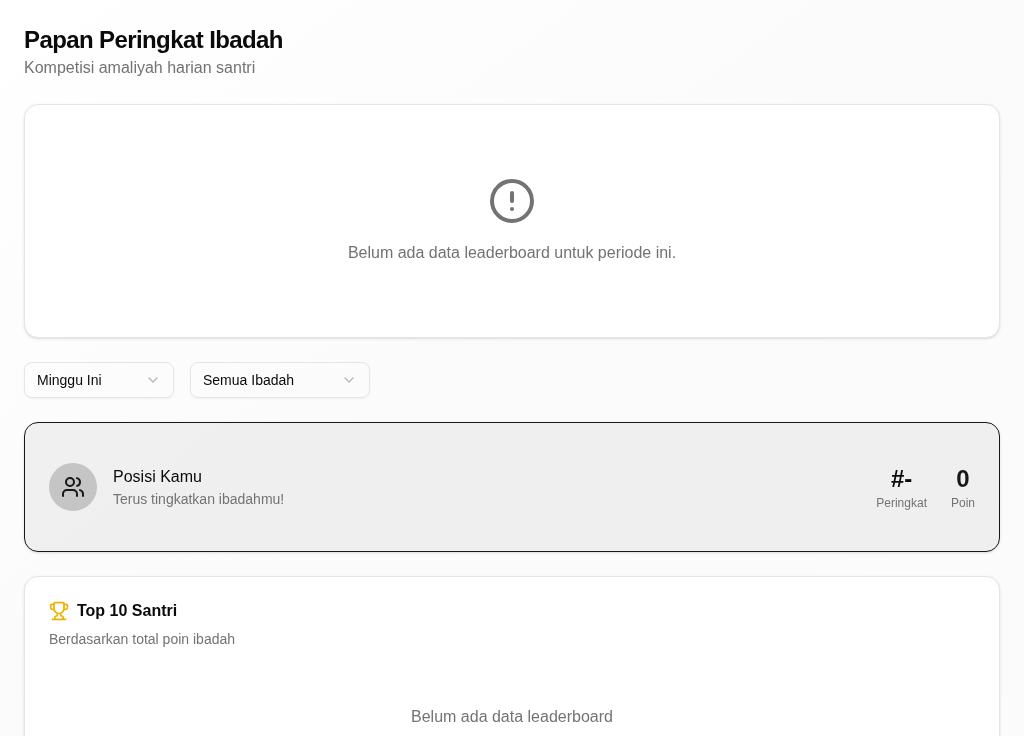
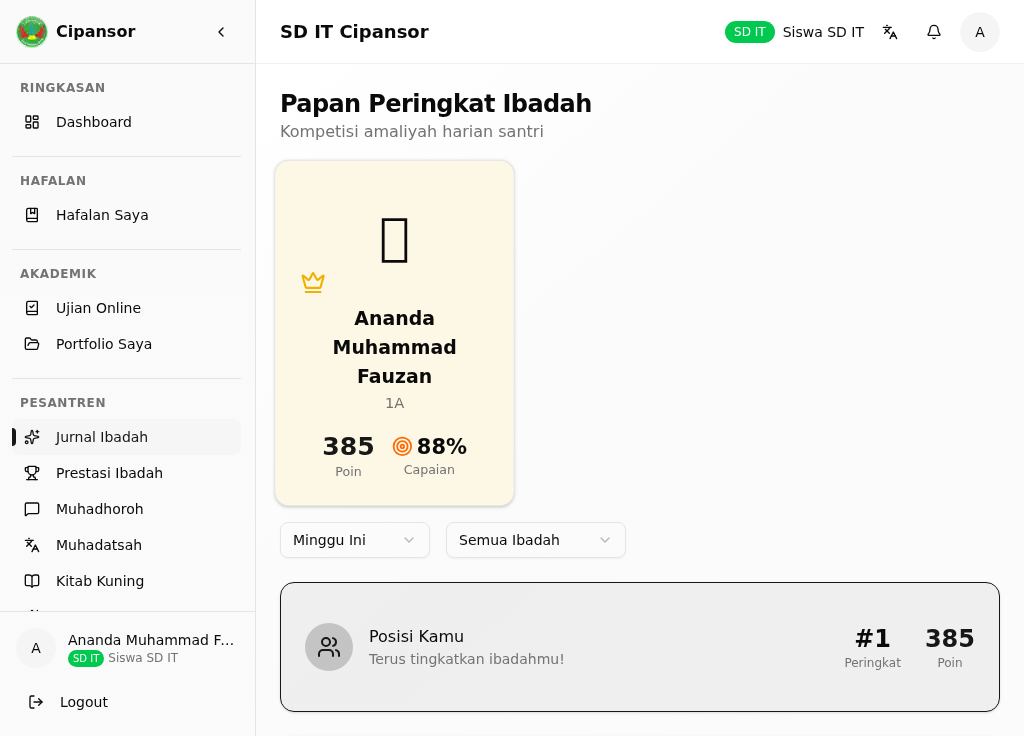
docs: catat jangkauan santri lintas unit ustadz/musyrif/muhafidz (#778)
#714 widened the pesantren staff's santri reach to every unit
(`seesAllUnits` over `CROSS_UNIT_SCOPE_ROLES`), but no document said so:
the guides still read "sebatas unit Anda", the README's cross-unit role
list omitted ustadz/musyrif/muhafidz/tata usaha pesantren, and the
Papan Peringkat guide used the word "ketekunan" that is nowhere on the
screen since the always-zero streak column became a target-completion
percentage.

- PANDUAN-PENGGUNA-MUSYRIF §1.2: split per-santri-binaan cards from the
  cross-unit ones (tahfidz, muhadhoroh/muhadatsah, kitab kuning, ibadah,
  sanad) instead of "sebatas santri binaan dan unit Anda".
- PANDUAN-PENGGUNA-UMUM §3.3: name `studentScope` and the cross-unit
  roles rather than the easily misread "peran yang terkunci pada satu unit".
- PANDUAN-PENGGUNA-GURU §1.2: note that guru/wali kelas stay per-unit
  while pesantren staff reach every unit.
- README "Fitur Utama" + "Akses berlapis": add the pesantren staff and
  `seesAllUnits`.
- DOKUMEN-TEKNIS §8: mention `seesAllUnits`/`CROSS_UNIT_SCOPE_ROLES`.
- PANDUAN-PENGGUNA-SANTRI + manifest: use the real control names
  ("Capaian target", "Peringkat di unitmu, berdasarkan total poin ibadah");
  re-capture 16-papan-peringkat.png (the streak column is gone).

Verified with the docs checker: 0 ERROR, 0 WARN on the four guides;
DOKUMEN-TEKNIS keeps its 16 pre-existing number/handler errors (tracked
by the drift issue), unchanged by this commit.

diff --git a/docs/PANDUAN-PENGGUNA-SANTRI.md b/docs/PANDUAN-PENGGUNA-SANTRI.md
@@ -5,6 +5,7 @@
 | 0.1 | 30 September 2026 | aplikasi berjalan dari kode commit `a4735001` | **T1 — terverifikasi di aplikasi berjalan** | Penyusunan awal; tiap kartu dijalankan dengan akun demo santri pada tumpukan lokal (PostgreSQL + API :3001 + web :3000) dan memuat tangkapan layar asli |
 | 0.2 | 30 September 2026 | aplikasi berjalan dari kode commit `a4735001` | **T1 — terverifikasi di aplikasi berjalan** | Gambar Papan Peringkat diambil ulang dari halaman `/ibadah/leaderboard` (tangkapan pertama keliru memakai layar Jurnal Ibadah); kartu "Menetapkan target ibadah" memakai tangkapan halaman **Kelola Target Ibadah** yang sebenarnya, bukan Jurnal Ibadah |
 | 0.3 | 30 September 2026 | aplikasi berjalan dari kode commit `a4735001` | **T1 — terverifikasi di aplikasi berjalan** | Daftar tugas tidak lagi mencantumkan **Menetapkan target ibadah** (tindakan pengelola unit, bukan santri) dan diganti dengan **Melihat target ibadah**; baris pemecahan masalah target tidak lagi membahas penghapusan target (hak pengelola) melainkan kegagalan memuat daftar target |
+| 0.4 | 11 November 2026 | aplikasi berjalan dari `main` `edd4800` | **T1 — terverifikasi di aplikasi berjalan** | Langkah dan keterangan Papan Peringkat dikoreksi: istilah **ketekunan** (tidak ada di layar) diganti nama kontrol nyata — kolom **Capaian target** dan judul kartu **Peringkat di unitmu, berdasarkan total poin ibadah**. Gambar `16-papan-peringkat.png` diambil ulang karena kolom *streak* dibuang pada #714 dan kini menampilkan persentase capaian target |
 
 > **Tingkat verifikasi T1.** Semua kartu tugas di bawah sudah **dijalankan pada
 > aplikasi berjalan** dengan akun demo santri, dan tiap kartu memuat tangkapan
@@ -104,16 +105,18 @@ Giliran guru tahfidz atau musyrif mencatat setoran berikutnya.
    *Catatan ibadah hari ini dan target Anda tampil.*
 2. Catat ibadah yang sudah Anda jalankan.
    *Catatan tersimpan pada jurnal harian Anda.*
-3. Buka **Papan Peringkat** untuk melihat posisi ketekunan Anda.
-   *Peringkat beserta **Posisi Kamu** tampil.*
+3. Buka **Papan Peringkat** untuk melihat posisi ibadah Anda di unit Anda.
+   *Kartu **Posisi Kamu** menampilkan peringkat dan poin Anda. Baris
+   **Peringkatmu** menampilkan persentase **Capaian target** (ikon *Target*)
+   beserta poin Anda.*
 
 ![Gambar 2. Jurnal Ibadah: catatan sholat, tilawah, dan target ibadah.](screens/keseharian-santri/03-jurnal-ibadah.png){width=14cm}
 
 *Gambar 2. Jurnal Ibadah: catatan sholat, tilawah, dan target ibadah.*
 
-![Gambar 3. Papan Peringkat: peringkat ketekunan ibadah antar santri.](screens/keseharian-santri/16-papan-peringkat.png){width=14cm}
+![Gambar 3. Papan Peringkat: posisi ibadah Anda dan capaian target di unit Anda.](screens/keseharian-santri/16-papan-peringkat.png){width=14cm}
 
-*Gambar 3. Papan Peringkat: peringkat ketekunan ibadah antar santri.*
+*Gambar 3. Papan Peringkat: posisi ibadah Anda dan capaian target di unit Anda.*
 
 **Hasilnya, dan giliran siapa berikutnya.** Jurnal dan poin ibadah Anda
 diperbarui. Giliran wali kelas atau musyrif memverifikasinya.

diff --git a/docs/PANDUAN-PENGGUNA-UMUM.md b/docs/PANDUAN-PENGGUNA-UMUM.md
@@ -6,6 +6,7 @@
 | 0.2 | 29 September 2026 | commit `aefc719` | dari kode, belum dicoba di aplikasi berjalan | Jalur ubah kata sandi dikoreksi (Profile → Keamanan, bukan Settings); nama menu dan tombol dicocokkan ke layar (Logout); nama enum basis data diganti label layar; istilah pengembang dikeluarkan |
 | 0.3 | 29 September 2026 | commit `1a0e6b1e` (kode identik dengan `aefc719`) | dari kode, belum dicoba di aplikasi berjalan | Diperiksa ulang dengan pemeriksa skill terbaru; tidak ada isi yang berubah |
 | 0.4 | 30 September 2026 | aplikasi berjalan dari kode PR #512 (setelah `main` `2377f5fb`) | **T1 — terverifikasi di aplikasi berjalan** | Bab "Mulai Memakai Aplikasi" (2.1–2.6) dijalankan dengan akun demo pada tumpukan lokal (PostgreSQL + API :3001 + web :3000). Dua koreksi dari layar sungguhan: ikon lonceng **membuka halaman Notifikasi Saya** (bukan panel), dan halaman pertama berlabel **Dashboard**. Tangkapan layar disematkan; pita ⚠ dibuka. Bab konsep dan rujukan (3–5) tetap disusun dari kode |
+| 0.5 | 11 November 2026 | `main` `edd4800` | dari kode, belum dicoba ulang di aplikasi berjalan | §3.3 dikoreksi: cakupan baris dijelaskan lewat `studentScope` dan daftar peran lintas unit (organ yayasan, ustadz, musyrif, muhafidz, pengasuh, tata usaha pesantren, layanan bersama) yang menjangkau seluruh unit, menggantikan generalisasi "peran yang terkunci pada satu unit" yang mudah salah dibaca |
 
 > **Tingkat verifikasi.** Bab **Mulai Memakai Aplikasi** (2.1–2.6) sudah
 > **dijalankan pada aplikasi berjalan** dengan akun demo dan memuat tangkapan
@@ -164,9 +165,12 @@ meski server menolak — bila itu terjadi, laporkan ke pengelola sistem.
 
 Wali santri hanya melihat data anaknya sendiri. Sebagian data bergantung pada
 **baris**, bukan hanya peran: misalnya izin santri mukim diputuskan oleh
-musyrifnya, sedangkan izin santri harian oleh wali kelasnya. Aplikasi tidak
-pernah menampilkan data santri lintas unit kepada peran yang terkunci pada satu
-unit. Jangan membagikan tangkapan layar berisi data santri.
+musyrifnya, sedangkan izin santri harian oleh wali kelasnya. Cakupan barisnya
+diperiksa di server (`studentScope`): organ yayasan dan petugas pesantren —
+ustadz, musyrif, muhafidz, pengasuh, tata usaha pesantren — serta layanan
+bersama (asrama, klinik, perpustakaan, laboratorium, keamanan) menjangkau
+santri **seluruh unit**, sedangkan peran lain terkunci pada unitnya. Jangan
+membagikan tangkapan layar berisi data santri.
 
 # 4. Rujukan
 

diff --git a/docs/PANDUAN-PENGGUNA-GURU.md b/docs/PANDUAN-PENGGUNA-GURU.md
@@ -6,6 +6,7 @@
 | 0.2 | 29 September 2026 | commit `aefc719` | dari kode, belum dicoba di aplikasi berjalan | Langkah dan nama tombol diperiksa ulang satu per satu ke kode layar; pesan yang dikutip disalin dari kode; istilah pengembang dan nomor PR dikeluarkan; kartu izin dipersempit ke wali kelas |
 | 0.3 | 29 September 2026 | commit `1a0e6b1e` (kode identik dengan `aefc719`) | dari kode, belum dicoba di aplikasi berjalan | Nama butir menu **Mengajar** ditulis persis seperti layar ("Siswa") supaya tidak terbaca sebagai prosa. Isi kartu tidak berubah |
 | 0.4 | 30 September 2026 | aplikasi berjalan dari kode PR #512 (setelah `main` `2377f5fb`) | **T1 — terverifikasi di aplikasi berjalan** | Keempat kartu dijalankan dengan akun demo `sdit.walikelas@` pada tumpukan lokal (PostgreSQL + API :3001 + web :3000); langkah, nama tombol, dan pesan dicocokkan ulang dengan layar sungguhan dan tangkapan layar disematkan. Pita ⚠ dibuka; Riwayat Revisi mencatat tingkat T1 |
+| 0.5 | 11 November 2026 | `main` `edd4800` | dari kode, belum dicoba ulang di aplikasi berjalan | Catatan cakupan ditambahkan pada §1.2: guru dan wali kelas tetap sebatas kelas dan unitnya, sedangkan sebagian petugas pesantren (ustadz, musyrif, muhafidz, pengasuh, tata usaha pesantren) menjangkau santri dari seluruh unit (#714) |
 
 > **Tingkat verifikasi T1.** Semua kartu tugas di bawah sudah **dijalankan pada
 > aplikasi berjalan** dengan akun demo wali kelas SD IT (absensi harian, tindak
@@ -42,7 +43,9 @@ kelompok itu bisa muncul dan hilang sesuai penugasan Anda.
   Izin santri mukim diputuskan musyrif santri itu (lihat buklet Pendidik
   Pesantren). Kepala unit hanya turun tangan untuk izin lebih dari 7 hari,
   santri tanpa pembimbing, atau mengambil alih.
-- Data santri hanya tampil sebatas kelas dan unit Anda.
+- Data santri hanya tampil sebatas kelas dan unit Anda. *Sebagian petugas
+  pesantren — ustadz, musyrif, muhafidz, pengasuh, dan tata usaha pesantren —
+  menjangkau santri dari seluruh unit; lihat buklet Pendidik Pesantren.*
 
 ## 1.3 Tugas dalam buklet ini
 

diff --git a/docs/PANDUAN-PENGGUNA-MUSYRIF.md b/docs/PANDUAN-PENGGUNA-MUSYRIF.md
@@ -3,6 +3,7 @@
 | Versi | Tanggal | Basis aplikasi | Tingkat verifikasi | Perubahan |
 |---|---|---|---|---|
 | 0.1 | 30 September 2026 | aplikasi berjalan dari kode PR #512 (setelah `main` `2377f5fb`) | **T1 — terverifikasi di aplikasi berjalan** | Penyusunan awal; tiap kartu dijalankan dengan akun demo musyrif (`pesantren.musyrif@cipansor.or.id`) pada tumpukan lokal (PostgreSQL + API :3001 + web :3000) dan memuat tangkapan layar asli |
+| 0.2 | 11 November 2026 | `main` `edd4800` | dari kode, belum dicoba ulang di aplikasi berjalan | Kalimat cakupan §1.2 dikoreksi: data santri tidak lagi "sebatas santri binaan dan unit Anda". Kini dibedakan **per santri binaan** (Santri Binaan, Tindak Lanjut Absensi, Asrama, izin mukim) dari **bersama lintas unit** (tahfidz, muhadhoroh/muhadatsah, kitab kuning, ibadah, sanad), sesuai #714 (`seesAllUnits`, `CROSS_UNIT_SCOPE_ROLES`) |
 
 > **Tingkat verifikasi T1.** Semua kartu tugas di bawah sudah **dijalankan pada
 > aplikasi berjalan** dengan akun demo musyrif, dan tiap kartu memuat tangkapan
@@ -39,7 +40,12 @@ Kehadiran, Asrama, Musyrif, Mutabaah Yaumiyah, Jurnal Ibadah, Muhasabah),
 - Anda **mencatat setoran tahfidz** santri binaan Anda.
 - Kepala unit hanya turun tangan untuk izin lebih dari 7 hari, santri tanpa
   pembimbing, atau mengambil alih keputusan.
-- Data santri hanya tampil sebatas santri binaan dan unit Anda.
+- Data santri tampil dalam **dua lingkup**. **Per santri binaan Anda** — kartu
+  Santri Binaan, Tindak Lanjut Absensi, Asrama, dan keputusan izin santri mukim.
+  **Bersama seluruh unit** — Tahfidz, Muhadhoroh, Muhadatsah, Kitab Kuning,
+  Jurnal Ibadah, dan Sanad, yang memuat santri dari semua sekolah (TK Qur'an,
+  SD IT, SMP IT, SMA Qur'an) karena tugas Anda melayani pesantren, bukan satu
+  sekolah.
 
 ## 1.3 Tugas dalam buklet ini
 

diff --git a/README.md b/README.md
@@ -98,8 +98,9 @@ dengan `apps/web/scripts/role-menus.ts`.
 
 ## Fitur Utama
 
-- **Banyak unit, satu portal.** Unit menjadi cakupan data. Organ yayasan dan
-  layanan lintas unit (asrama, klinik, perpustakaan, keamanan) melihat semua
+- **Banyak unit, satu portal.** Unit menjadi cakupan data. Organ yayasan,
+  petugas pesantren (ustadz, musyrif, muhafidz, pengasuh, tata usaha pesantren)
+  dan layanan lintas unit (asrama, klinik, perpustakaan, keamanan) melihat semua
   unit; peran lain terkunci pada unitnya.
 - **Tahfidz dan kepesantrenan.** Target dan setoran hafalan dari SD sampai SMA,
   simaan, takhosus, ibadah harian, kitab kuning, asrama, dan perizinan yang
@@ -140,8 +141,9 @@ packages/
   dicatat sebagai baseline yang hanya boleh menyusut.
 - **Akses berlapis:** menu (`config/navigation.ts`), halaman
   (`lib/rbac.ts` + `middleware.ts`), rute API (`authorize`), dan cakupan baris
-  di service (mis. `studentScope`). Izin per fitur yang diturunkan dari
-  penugasan ("Model A") sedang dibangun bertahap.
+  di service (mis. `studentScope`, yang melebarkan baca ke seluruh unit lewat
+  `seesAllUnits`). Izin per fitur yang diturunkan dari penugasan ("Model A")
+  sedang dibangun bertahap.
 - **Kontrak** request/response tinggal sekali di `@cipansor/shared`.
 
 Rinciannya di [`docs/ARCHITECTURE.md`](docs/ARCHITECTURE.md) dan dokumen teknis

diff --git a/docs/DOKUMEN-TEKNIS.md b/docs/DOKUMEN-TEKNIS.md
@@ -511,7 +511,11 @@ sampai ke kontainer; pada Azure App Service, ke app settings tiap kontainer.
 - **Otorisasi dua lapis.** Lapis API: `authorize(RoleCode…)` dan
   `hasPermission(perm)`; lapis web: kode peran memilih menu (`navigation.ts`),
   bucket lama memilih halaman yang boleh dibuka (`rbac.ts`). Lingkup baris data
-  ditentukan di service (`resolve-unit-id`, `studentScope`).
+  ditentukan di service (`resolve-unit-id`, `studentScope`). `studentScope`
+  melebarkan baca ke seluruh unit untuk organ yayasan dan peran lintas unit
+  (`seesAllUnits` atas `CROSS_UNIT_SCOPE_ROLES`: pengasuh, ustadz, musyrif,
+  muhafidz, tata usaha pesantren, dan layanan bersama), sedangkan peran lain
+  terkunci pada unitnya.
 - **Validasi.** Zod di tepi (`validate`, `validateQuery`, `validateParams`);
   skema bersama di `@cipansor/shared`; kontrak yang sama dipakai web.
 - **Amplop respons.** `{ success, data, meta? }` lewat `ApiResponse`; galat
